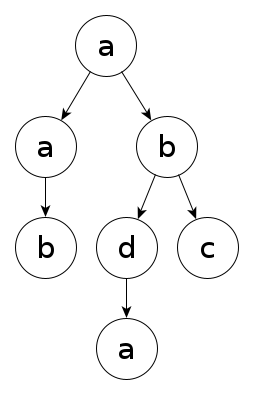
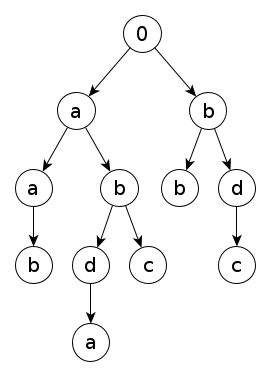
Finish lab_08 report

diff --git a/reports/lab_08/Main.tex b/reports/lab_08/Main.tex
@@ -77,29 +77,49 @@
 
 \newpage
 \anonsection{ПОСТАНОВКА ЗАДАЧИ}
-Необходимо реализовать алгоритм поиска слов в словаре. Эффективность алгоритма должна составлять не более $\log_2N$, где N - размер сегмента словаря (кол-во слов), в котором производится поиск.
+Необходимо реализовать алгоритм поиска слов в словаре. Эффективность алгоритма должна составлять не более $\log_2N$, где $N$ - размер сегмента словаря (кол-во слов), в котором производится поиск. Также нужно продемонстрировать работу алгоритма на простейшем примере (например, поиск слов в тексте, которые не содержаться в словаре).
 
 \newpage
 \section{АНАЛИТИЧЕСКАЯ ЧАСТЬ}
 \subsection{Описание алгоритма}
-Пусть V - заданный алфавит. % Доделай
-Словарь можно представить как древовидную структуру вида: \\
-% Добавь сюда ещё одну картинку
-Так, например, словарь из слов <<aab>>, <<abc>>, <<abda>> можно представить как:
+Пусть $V$ - заданный алфавит, символ $0$ - начало любой строки, <<нулевой символ>>. Тогда словарь можно представить как древовидную структуру вида: \\
+\begin{figure}[H]
+\center{\includegraphics[scale=0.5]{treexample1.png}}
+\caption{Структура словаря из примера}
+\label{images:tree1}
+\end{figure}у
+Так, например, словарь из слов <<aab>>, <<abc>>, <<abda>>, <<bb>>, <<bdc>> можно представить как:
 \begin{figure}[H]
 \center{\includegraphics[scale=0.5]{treexample.png}}
 \caption{Структура словаря из примера}
 \label{images:tree2}
 \end{figure}
 
+Алгоритм заключается в последовательном просмотре каждого символа строки и сравнении его с символом в текущем узле дерева символов (то есть словаря). Если текущий символ заключительный в строке и текущий узел дерева является листом, то это значит, что данная строка находится и в словаре. Если же при просмотре символы не совпадают, то это значит, что данная строка отсутствует в словаре.\\
+Псевдокод:\\
+1. initialize $u$ \quad\quad //$u$ - корневой узел дерева.\\
+2. initialize $t$ \quad\quad //$t$ - строка\\
+3. $len$ = $t.len$ \quad\quad //$len$ - длина строки\\
+4. for $i \leftarrow 1$ to $len$ \\
+5. \quad do if not exist $u[t[i]]$\\
+6. \quad\.\quad then print "такого слова нет в словаре"\\
+7. \quad\.\quad\. exit\\
+8.\.\quad $u \leftarrow u[t[i]]$\\
+9. if exist $u[end\_symbol]$ \quad\quad //$end\_symbol$ - символ конца строки\\
+10. \quad then print "данное слово найдено в словаре"\\
+11.else \\
+12. \quad then print "такого слова нет в словаре"\\
+13.end \\
+
 \newpage
 \subsection{Вывод}
-Аналитически 
+В данном разделе был описан алгоритм поиска в словаре. Словарь представляется как дерево символов. Также был изложен псевдокод данного алгоритма. На основе всего выше изложенного можно приступить к проектированию будущей системы и формированию требований к работе приложения.
 
 % Конструкторская часть
 
 \newpage
 \section{КОНСТРУКТОРСКАЯ ЧАСТЬ}
+
 
 \subsection{Разработка алгоритма}
 На вход у алгоритма передаются в качестве параметров:
@@ -138,6 +158,20 @@
 \newpage
 \subsection{Средства реализации}
 Для реализации данных алгоритмов был выбран язык программирования С, компилятор gcc и некоторые функции из библиотеки glibc (memcpy, malloc и тд...). \\
+Основные особенности Си: \\
+\begin{itemize}
+\item простая языковая база, из которой в стандартную библиотеку вынесены многие существенные возможности, вроде математических функций или функций работы с файлами;
+\item ориентация на процедурное программирование;
+\item система типов, предохраняющая от бессмысленных операций;
+\item использование препроцессора для абстрагирования однотипных операций;
+\item доступ к памяти через использование указателей;
+\item небольшое число ключевых слов;
+\item передача параметров в функцию по значению, а не по ссылке (передача по ссылке эмулируется с помощью указателей);
+\item наличие указателей на функции и статических переменных;
+\item области видимости имён;
+\item структуры и объединения — определяемые пользователем собирательные типы данных, которыми можно манипулировать как одним целым.
+\end{itemize}
+
 
 \newpage
 \subsection{Листинг кода}
@@ -170,11 +204,17 @@
 
 \newpage
 \subsection{Примеры работы}
-На Рис. \ref{images:example}, предсавленном ниже, демонстрируется работа приложения. Запуск приложения осуществляется из эмулятора терминала в Arch Linux.
+На рис. \ref{images:example}, предсавленном ниже, демонстрируется работа приложения. Запуск приложения осуществляется из эмулятора терминала в Arch Linux.
+\textit{dictionary.txt} - файл, содержащий словарь (каждое слово на отдельной строке).\textit{text.txt} - файл, содержащий текст, в котором происходит поиск слов, отсутствующих в словаре и выводе их на экран. Содержание файла представлено на рис. \ref{images:example1}.
 \begin{figure}[h]
 \center{\includegraphics[scale=0.5]{example.png}}
 \caption{Пример работы приложения}
 \label{images:example}
+\end{figure}
+\begin{figure}[h]
+\center{\includegraphics[scale=0.5]{example1.png}}
+\caption{Текст в файле text.txt}
+\label{images:example1}
 \end{figure}
 
 \newpage
@@ -200,11 +240,12 @@ $P$ - память, выделяемая под указатели.
 
 \newpage
 \subsection{Вывод}
-В ходе эксперимантольной части работы было протестирована работа приложения. Была проведенка оценка затрачиваемой памяти этого алгоритма. 
+В ходе экспериментальной части была продемонстрирована работа приложения по нахождению слов в тексте, отсутствующих в словаре. Также была проведена оценка затрачиваемой памяти используемого в этом приложении алгоритма. 
 
 \newpage
 \anonsection{ЗАКЛЮЧЕНИЕ}
-Поиск в словаре в основном нужен для проверки орфографии в редакторах текста. Также, он ускоряет написание программ в интегрированных средствах разработки путем автоподставления слов (переменных, функций и тд).
+Поиск в словаре в основном нужен для проверки орфографии в редакторах текста. Так, например, Microsoft Word при наборе каких-то слов автоматически определяет их корректность.
+Также, алгоритм поиска в словаре позволяет ускорять написание программ в интегрированных средствах разработки путем автоподставления подходящих слов (переменных, функций и тд). Примеры таких средств разработки (IDE), можно привести Visual Studio, CLion, Qt Creator, Eclipse и тд...
 
 \newpage
 \anonsection{СПИСОК ИСТОЧНИКОВ}
